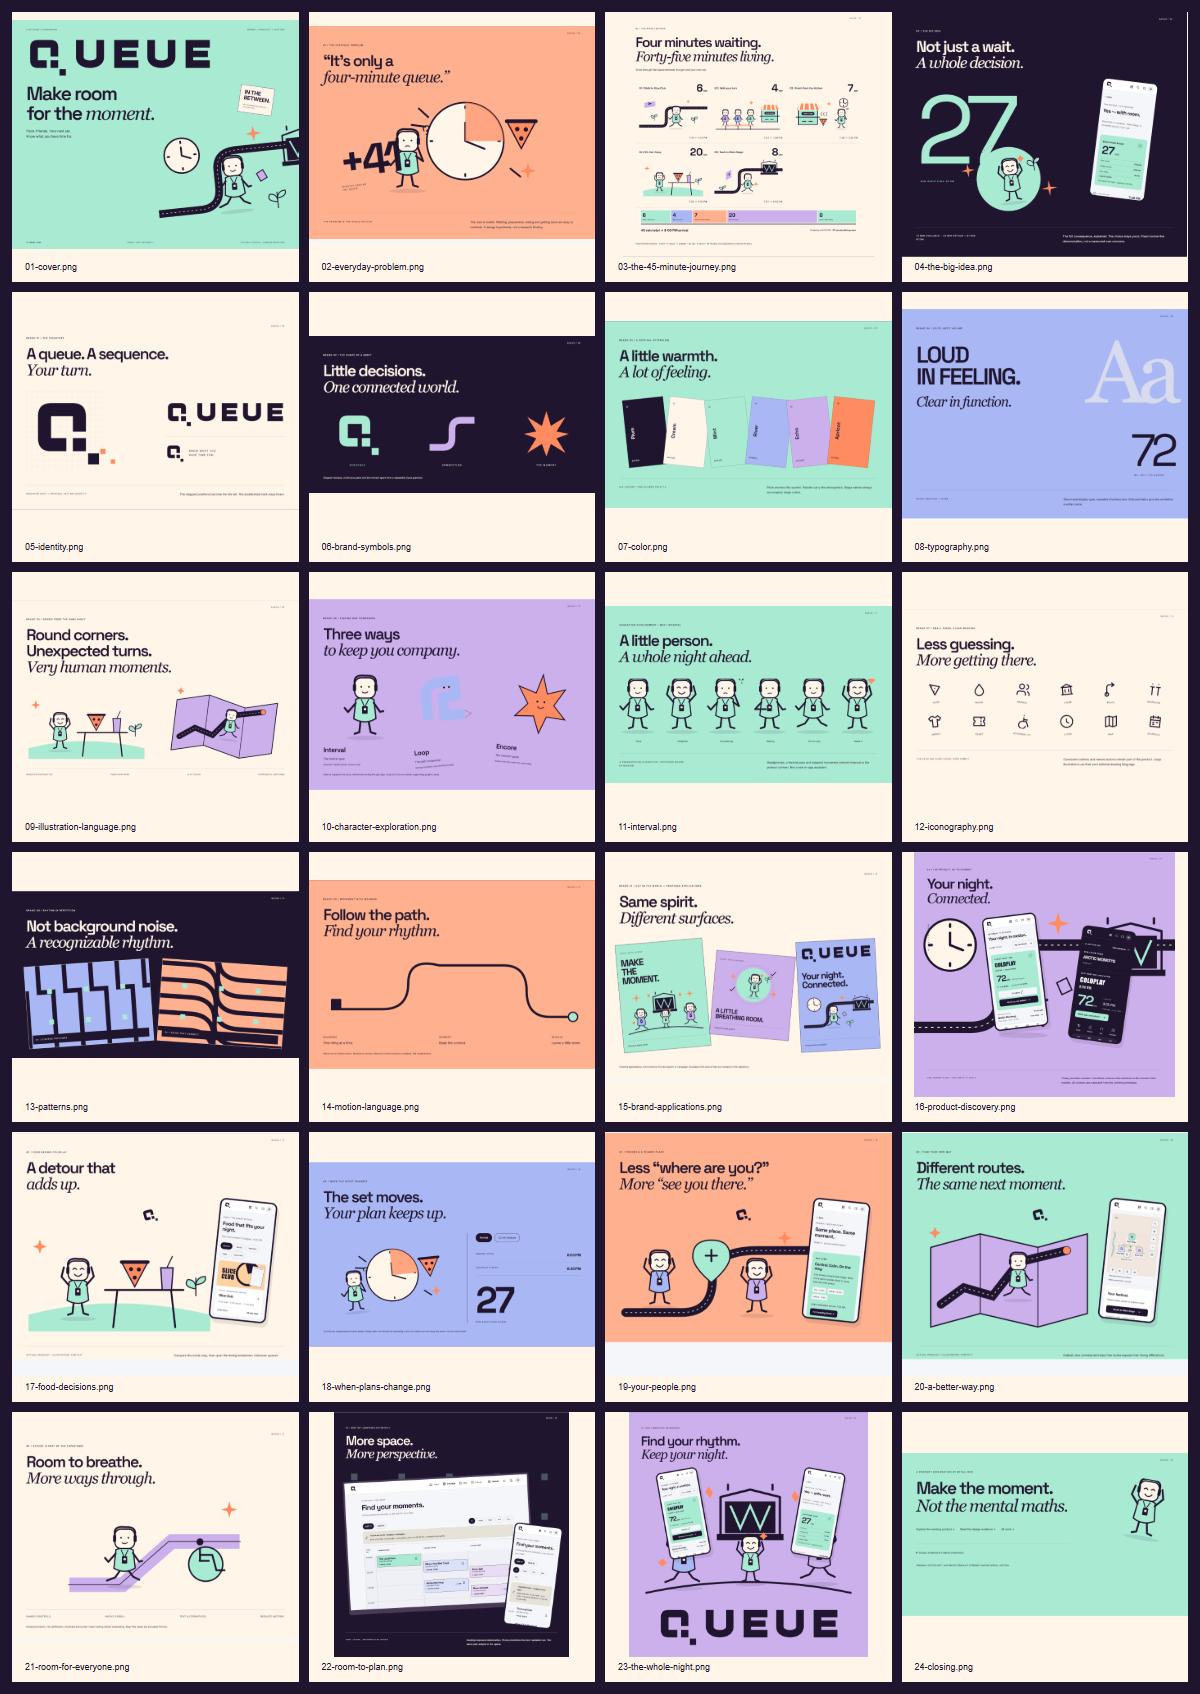
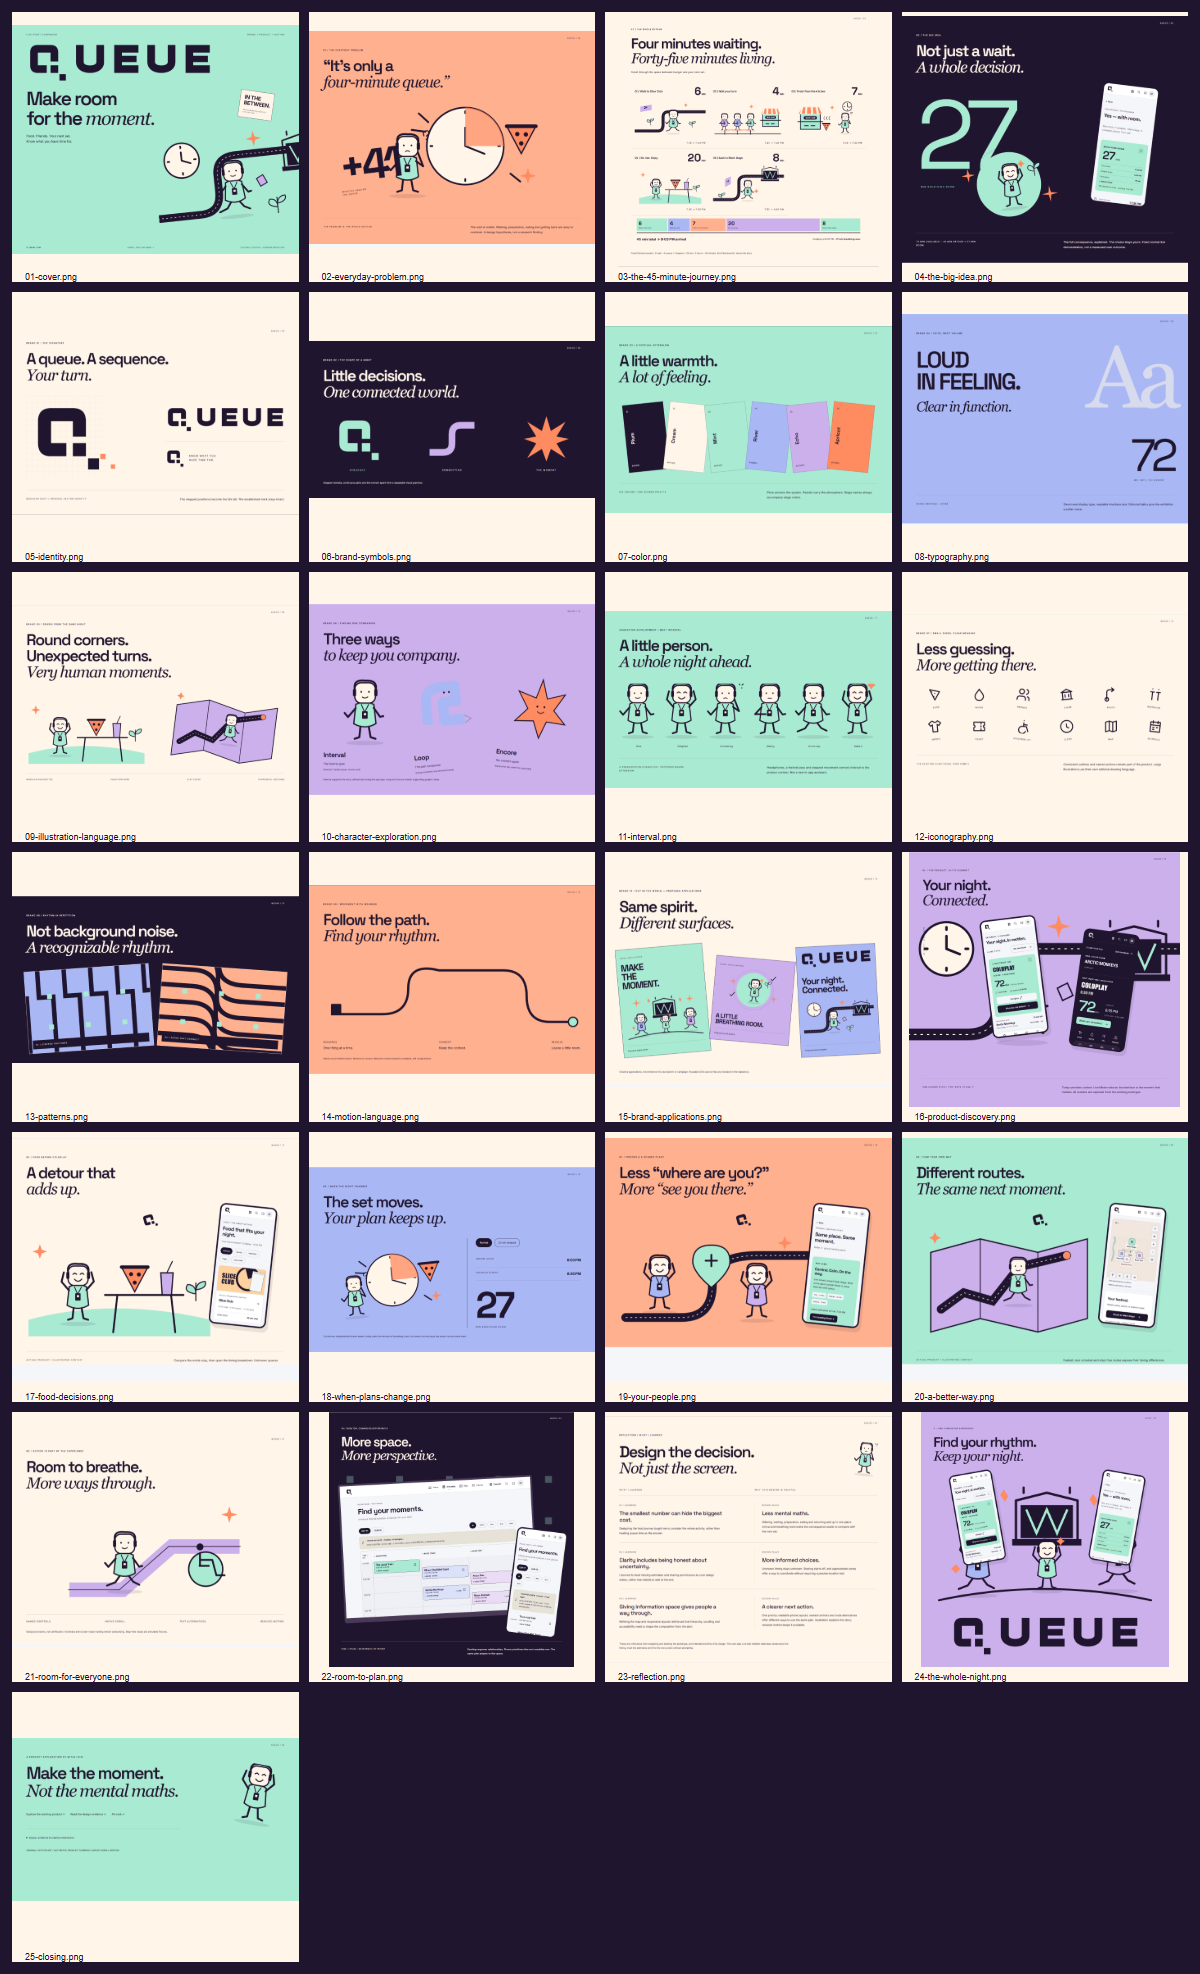
Add design learnings and intended benefits to QUEUE case study

diff --git a/exports/queue-illustrated/index.html b/exports/queue-illustrated/index.html
@@ -1,1 +1,1 @@
-<!doctype html><html lang="en"><meta charset="utf-8"><title>QUEUE — illustrated exhibition</title><style>body{margin:0;background:#20152e;color:#fff5e8;font:16px Arial}header{padding:36px}img{display:block;width:100%;max-width:1400px;height:auto;margin:auto}a{color:#a9ead2}</style><header><h1>QUEUE / illustrated brand & product exhibition</h1><p>24 original visual chapters. Static export; native scroll motion lives on the website.</p><a href="https://queue-six-liart.vercel.app/work/queue">Explore the interactive exhibition ↗</a></header><img loading="lazy" src="01-cover.png" width="1400" height="1120" alt="Make room for the moment."><img loading="lazy" src="02-everyday-problem.png" width="1400" height="1059" alt="“It’s only a four-minute queue.”"><img loading="lazy" src="03-the-45-minute-journey.png" width="1400" height="1368" alt="Four minutes waiting. Forty-five minutes living."><img loading="lazy" src="04-the-big-idea.png" width="1400" height="1203" alt="Not just a wait. A whole decision."><img loading="lazy" src="05-identity.png" width="1400" height="929" alt="A queue. A sequence. Your turn."><img loading="lazy" src="06-brand-symbols.png" width="1400" height="766" alt="Little decisions. One connected world."><img loading="lazy" src="07-color.png" width="1400" height="913" alt="A little warmth. A lot of feeling."><img loading="lazy" src="08-typography.png" width="1400" height="1028" alt="LOUD IN FEELING. Clear in function."><img loading="lazy" src="09-illustration-language.png" width="1400" height="924" alt="Round corners. Unexpected turns. Very human moments."><img loading="lazy" src="10-character-exploration.png" width="1400" height="928" alt="Three ways to keep you company."><img loading="lazy" src="11-interval.png" width="1400" height="869" alt="A little person. A whole night ahead."><img loading="lazy" src="12-iconography.png" width="1400" height="833" alt="Less guessing. More getting there."><img loading="lazy" src="13-patterns.png" width="1400" height="811" alt="Not background noise. A recognizable rhythm."><img loading="lazy" src="14-motion-language.png" width="1400" height="924" alt="Follow the path. Find your rhythm."><img loading="lazy" src="15-brand-applications.png" width="1400" height="1047" alt="Same spirit. Different surfaces."><img loading="lazy" src="16-product-discovery.png" width="1400" height="1315" alt="Your night. Connected."><img loading="lazy" src="17-food-decisions.png" width="1400" height="1185" alt="A detour that adds up."><img loading="lazy" src="18-when-plans-change.png" width="1400" height="902" alt="The set moves. Your plan keeps up."><img loading="lazy" src="19-your-people.png" width="1400" height="1185" alt="Less “where are you?” More “see you there.”"><img loading="lazy" src="20-a-better-way.png" width="1400" height="1185" alt="Different routes. The same next moment."><img loading="lazy" src="21-room-for-everyone.png" width="1400" height="1045" alt="Room to breathe. More ways through."><img loading="lazy" src="22-room-to-plan.png" width="1400" height="1459" alt="More space. More perspective."><img loading="lazy" src="23-the-whole-night.png" width="1400" height="1436" alt="Find your rhythm. Keep your night."><img loading="lazy" src="24-closing.png" width="1400" height="800" alt="Make the moment. Not the mental maths."></html>
+<!doctype html><html lang="en"><meta charset="utf-8"><title>QUEUE — illustrated exhibition</title><style>body{margin:0;background:#20152e;color:#fff5e8;font:16px Arial}header{padding:36px}img{display:block;width:100%;max-width:1400px;height:auto;margin:auto}a{color:#a9ead2}</style><header><h1>QUEUE / illustrated brand & product exhibition</h1><p>25 original visual chapters. Static export; native scroll motion lives on the website.</p><a href="https://queue-six-liart.vercel.app/work/queue">Explore the interactive exhibition ↗</a></header><img loading="lazy" src="01-cover.png" width="1400" height="1120" alt="Make room for the moment."><img loading="lazy" src="02-everyday-problem.png" width="1400" height="1059" alt="“It’s only a four-minute queue.”"><img loading="lazy" src="03-the-45-minute-journey.png" width="1400" height="1368" alt="Four minutes waiting. Forty-five minutes living."><img loading="lazy" src="04-the-big-idea.png" width="1400" height="1203" alt="Not just a wait. A whole decision."><img loading="lazy" src="05-identity.png" width="1400" height="929" alt="A queue. A sequence. Your turn."><img loading="lazy" src="06-brand-symbols.png" width="1400" height="766" alt="Little decisions. One connected world."><img loading="lazy" src="07-color.png" width="1400" height="913" alt="A little warmth. A lot of feeling."><img loading="lazy" src="08-typography.png" width="1400" height="1028" alt="LOUD IN FEELING. Clear in function."><img loading="lazy" src="09-illustration-language.png" width="1400" height="924" alt="Round corners. Unexpected turns. Very human moments."><img loading="lazy" src="10-character-exploration.png" width="1400" height="928" alt="Three ways to keep you company."><img loading="lazy" src="11-interval.png" width="1400" height="869" alt="A little person. A whole night ahead."><img loading="lazy" src="12-iconography.png" width="1400" height="833" alt="Less guessing. More getting there."><img loading="lazy" src="13-patterns.png" width="1400" height="811" alt="Not background noise. A recognizable rhythm."><img loading="lazy" src="14-motion-language.png" width="1400" height="924" alt="Follow the path. Find your rhythm."><img loading="lazy" src="15-brand-applications.png" width="1400" height="1047" alt="Same spirit. Different surfaces."><img loading="lazy" src="16-product-discovery.png" width="1400" height="1315" alt="Your night. Connected."><img loading="lazy" src="17-food-decisions.png" width="1400" height="1185" alt="A detour that adds up."><img loading="lazy" src="18-when-plans-change.png" width="1400" height="902" alt="The set moves. Your plan keeps up."><img loading="lazy" src="19-your-people.png" width="1400" height="1185" alt="Less “where are you?” More “see you there.”"><img loading="lazy" src="20-a-better-way.png" width="1400" height="1185" alt="Different routes. The same next moment."><img loading="lazy" src="21-room-for-everyone.png" width="1400" height="1045" alt="Room to breathe. More ways through."><img loading="lazy" src="22-room-to-plan.png" width="1400" height="1459" alt="More space. More perspective."><img loading="lazy" src="23-reflection.png" width="1400" height="1210" alt="Design the decision. Not just the screen."><img loading="lazy" src="24-the-whole-night.png" width="1400" height="1436" alt="Find your rhythm. Keep your night."><img loading="lazy" src="25-closing.png" width="1400" height="800" alt="Make the moment. Not the mental maths."></html>

diff --git a/src/visual-case-study.js b/src/visual-case-study.js
@@ -38,6 +38,7 @@ ${feature('your-people','apricot','07 / FRIENDS & A SHARED PLACE','Less “where
 ${feature('a-better-way','mint','08 / FIND YOUR OWN WAY','Different routes.<br><em>The same next moment.</em>','10-find-your-way','map-mobile','Actual map with layers, route choices and text alternatives','Fastest, less crowded and step-free routes expose their timing differences. Illustrated festival geometry is not surveyed navigation.')}
 ${spread('room-for-everyone','cream',`${tag('09 / ACCESS IS PART OF THE EXPERIENCE')}<h2>Room to breathe.<br><em>More ways through.</em></h2><div class="qx-access-art">${art('11-room-for-everyone','An illustrated ramp and accessibility symbol beside a moving festival-goer')}</div><div class="qx-access-words"><span>NAMED CONTROLS.</span><span>NATIVE SCROLL.</span><span>TEXT ALTERNATIVES.</span><span>REDUCED MOTION.</span></div><p class="qx-note">Design provisions, not certification. Hardware and screen-reader testing remain outstanding. Step-free routes are simulated fixtures.</p>`)}
 ${spread('room-to-plan','plum',`${tag('10 / DESKTOP, COMPOSED DIFFERENTLY')}<h2>More space.<br><em>More perspective.</em></h2><div class="qx-desktop-world"><div class="qx-desktop-pattern">${pattern('paths')}</div><figure><img src="${A}schedule-desktop.jpg" width="1440" height="1000" alt="Actual desktop schedule with stage columns and a time axis" loading="lazy"></figure>${screen('schedule-mobile','Actual phone schedule, arranged as readable chronological rows')}</div>${caption('TIME × STAGE / RESPONSIVE BY INTENT','Desktop exposes relationships. Phone prioritizes the next readable row. The same plan adapts to the space.')}`)}
+${spread('reflection','cream',`${tag('REFLECTION / WHAT I LEARNED')}<div class="qx-reflection-heading"><h2>Design the decision.<br><em>Not just the screen.</em></h2><svg viewBox="0 0 210 310" aria-hidden="true">${character('thinking')}</svg></div><div class="qx-reflection-labels"><span>WHAT I LEARNED</span><span>WHY THIS DESIGN IS HELPFUL</span></div><div class="qx-reflection-rows">${[['01','The smallest number can hide the biggest cost.','Designing the food journey taught me to consider the whole activity, rather than treating queue time as the answer.','Less mental maths.','Walking, waiting, preparation, eating and returning add up in one place. Arrival and breathing room make the consequence easier to compare with the next set.'],['02','Clarity includes being honest about uncertainty.','I learned to treat missing estimates and sharing permissions as core design states, rather than details to add at the end.','More informed choices.','Unknown timing stays unknown. Sharing starts off, and approximate zones offer a way to coordinate without requiring a precise location trail.'],['03','Giving information space gives people a way through.','Refining the map and responsive layouts reinforced that hierarchy, scrolling and accessibility need to shape the composition from the start.','A clearer next action.','One priority, readable phone layouts, named controls and route alternatives offer different ways to use the same plan. Illustration explains the story; reduced motion keeps it available.']].map(([n,title,lesson,benefit,why])=>`<article><div><span>${n} / LEARNING</span><h3>${title}</h3><p>${lesson}</p></div><div><span>DESIGN VALUE</span><h3>${benefit}</h3><p>${why}</p></div></article>`).join('')}</div><p class="qx-note">These are reflections from designing and building the prototype, and intended benefits of its design. The next step is to test whether attendees understand the timing, trust the estimates and find the next action without prompting.</p>`)}
 ${spread('the-whole-night','violet',`${tag('11 / ONE CONNECTED EXPERIENCE')}<h2>Find your rhythm.<br><em>Keep your night.</em></h2><div class="qx-celebration">${art('12-the-whole-night','Original final celebration: Interval and friends in front of the stage')}${screen('today-mobile','Real Today priority screen','qx-celebrate-one')}${screen('decision-mobile','Real decision result screen','qx-celebrate-two')}</div><div class="qx-celebration-word">${Logo({label:'QUEUE'})}</div>`)}
 ${spread('closing','mint',`${tag('A PRODUCT EXPLORATION BY MITALI GIRI')}<h2>Make the moment.<br><em>Not the mental maths.</em></h2><div class="qx-closing-companion"><svg viewBox="0 0 210 310" aria-hidden="true">${character('happy')}</svg></div><div class="qx-final-links"><a href="/today">Explore the working product ↗</a><a href="/work/queue/evidence">Read the design evidence ↗</a><a href="/work">All work ↗</a></div><details><summary>Scope, evidence & creative extensions</summary><p>Self-initiated concept for a fictional festival. The working responsive prototype uses fixed demo data. No participant research, business results, real GPS, production authentication or message delivery is claimed. The illustration system, Interval character and brand applications are proposed presentation extensions. Functional identity and flows are preserved.</p></details><span class="qx-note">ORIGINAL VECTOR ART / AUTHENTIC PRODUCT SCREENS / NATIVE SCROLL MOTION</span>`,'qx-closing')}
 </main><footer class="qx-footer"><span>Product exploration by <b>Mitali Giri</b></span><a href="#main">Back to the first moment ↑</a></footer></div>`;}

diff --git a/src/queue-exhibition.css b/src/queue-exhibition.css
@@ -10,3 +10,5 @@ body[data-behance-export=true] .qx-journey-world{width:100%;display:grid;grid-te
 
 .qx-header nav a{min-height:44px;display:inline-flex;align-items:center}
 @media(max-height:699px){.qx-journey-world{width:100%;display:block;transform:none!important}.qx-journey-scene{width:100%;padding:30px 0;border-bottom:1px solid #20152e33}.qx-journey-scene .qa-art{height:auto;max-height:420px}}
+
+.qx-reflection-heading{display:flex;align-items:center;justify-content:space-between;gap:35px}.qx-reflection-heading>svg{width:115px;flex-shrink:0;transform:rotate(6deg)}.qx-reflection-labels{display:grid;grid-template-columns:1fr 1fr;gap:60px;margin-top:55px;padding-bottom:20px;font-size:10px;letter-spacing:2px}.qx-reflection-rows article{display:grid;grid-template-columns:1fr 1fr;gap:60px;padding:32px 0;border-top:1px solid #20152e33}.qx-reflection-rows article>div{max-width:500px}.qx-reflection-rows span{font-size:9px;letter-spacing:1.5px}.qx-reflection-rows h3{font:500 26px/1.2 "Space Grotesk",sans-serif;letter-spacing:-.7px;margin:15px 0}.qx-reflection-rows p{font-size:13px;line-height:1.8}.qx-reflection-rows article>div+div{border-left:1px solid #20152e22;padding-left:35px}@media(max-width:600px){.qx-reflection-heading{gap:15px;align-items:start}.qx-reflection-heading>svg{width:62px;margin-top:5px}.qx-reflection-heading h2{font-size:34px}.qx-reflection-labels{display:none}.qx-reflection-rows{margin-top:35px}.qx-reflection-rows article{grid-template-columns:1fr;gap:24px;padding:28px 0}.qx-reflection-rows article>div+div{padding-left:18px}.qx-reflection-rows h3{font-size:23px}.qx-reflection-rows p{font-size:12px}}

diff --git a/docs/QUEUE_ILLUSTRATED_DIRECTION.md b/docs/QUEUE_ILLUSTRATED_DIRECTION.md
@@ -6,7 +6,7 @@ This presentation extends the existing modular-shift identity into an original i
 
 Twelve original SVG environments cover the space between sets, hidden minutes, walking, queuing, preparation, eating, returning, breathing room, shared places, navigation, access and celebration. Plum contours, modular silhouettes, cream faces, headphones, passes and controlled flat color unite them. Scenes are editorial metaphors; the illustrated paths are not the operational map or surveyed route geometry.
 
-The ten identity spreads present logo lockups, symbols, palette, typography, illustration rules, character exploration/development, existing iconography, patterns, motion and proposed digital applications. Original logo geometry is preserved. The case study uses 24 distinct spreads; it contains no MP4 players, play buttons or download links.
+The ten identity spreads present logo lockups, symbols, palette, typography, illustration rules, character exploration/development, existing iconography, patterns, motion and proposed digital applications. Original logo geometry is preserved. The case study uses 25 distinct spreads; it contains no MP4 players, play buttons or download links.
 
 ## Character exploration
 
@@ -32,10 +32,14 @@ Other compositions use alternating product-screen reveals, layered illustration 
 
 - `src/queue-art.js`: reusable SVG artwork primitives and12 compositions.
 - `scripts/create-queue-art.mjs`: writes33 valid standalone SVG assets.
-- `src/visual-case-study.js`:24 editorial spreads, authentic screenshots and a bounded delay-state comparison.
+- `src/visual-case-study.js`:25 editorial spreads, authentic screenshots and a bounded delay-state comparison.
 - `src/queue-exhibition.css`: scoped responsive layout and reduced-motion adaptation.
 - `src/queue-scroll.js`: GSAP lifecycle and reversible choreography.
 - `tests/queue-exhibition.mjs`: nine widths, selected axe rules, XML parsing, keyboard entry, reverse scrubbing, resize and product-route continuity.
 - `scripts/export-queue-exhibition.mjs`: still presentation, gallery, contact sheet and reusable SVG pack.
 
 The supplied Behance reference returned403; no claim is made to have reviewed its artwork. No reference assets are copied. Automated accessibility checks do not establish WCAG certification or usability success. No interviews, participant results, analytics or real-world launch evidence is invented. Brand applications are labelled proposed.
+
+## Reflection chapter
+
+A new reflection before the final showcase pairs three design-process lessons with intended benefits: complete timing reduces mental calculation; explicit uncertainty and opt-in sharing support informed choices; hierarchy, spacing and access alternatives make the next action clearer. These are authored design reflections, not invented user-study results. Attendee validation remains the next step.

diff --git a/README.md b/README.md
@@ -16,11 +16,11 @@ Run `node scripts/capture-case-study.mjs` against a running dev server (default5
 
 ## Visual-first edition
 
-The earlier 18-chapter visual edition and rendered videos remain archived in exports/queue-behance/. The current native illustrated edition uses24 chapters in exports/queue-illustrated/. Detailed product evidence remains at /work/queue/evidence.
+The earlier 18-chapter visual edition and rendered videos remain archived in exports/queue-behance/. The current native illustrated edition uses25 chapters in exports/queue-illustrated/. Detailed product evidence remains at /work/queue/evidence.
 
 ## Illustrated QUEUE exhibition
 
-The current /work/queue presentation uses24 illustrated spreads and native GSAP ScrollTrigger storytelling. No video players are embedded. Functional application screens and fixture data remain unchanged.
+The current /work/queue presentation uses25 illustrated spreads and native GSAP ScrollTrigger storytelling. No video players are embedded. Functional application screens and fixture data remain unchanged.
 
 - `node scripts/create-queue-art.mjs`: regenerate33 original reusable SVG assets.
 - `node tests/queue-exhibition.mjs`: responsive, accessibility, XML asset and reversible animation checks.

diff --git a/exports/queue-illustrated/README.md b/exports/queue-illustrated/README.md
@@ -1,6 +1,6 @@
 # QUEUE — illustrated exhibition
 
-24 numbered PNG chapters at 1400px wide. Upload in order. The 45-minute journey is assembled into five illustrated panels for the still export; the website uses reversible scroll motion. No video controls or MP4 embeds remain in the current presentation.
+25 numbered PNG chapters at 1400px wide. Upload in order. The 45-minute journey is assembled into five illustrated panels for the still export; the website uses reversible scroll motion. No video controls or MP4 embeds remain in the current presentation.
 
 assets/: 12 original SVG scenes; 8 Interval poses; 3 mascot concepts; 3 logo lockups; 2 patterns; 4 proposed applications; 1 journey source. Source SVGs remain crisp and editable. All product images are authentic captures of the prototype. Character and brand applications are proposed creative extensions, not an implemented assistant or real campaign.
 
